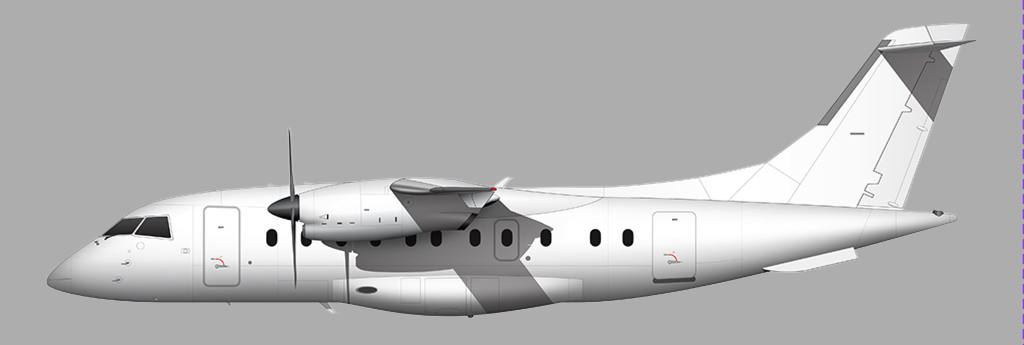
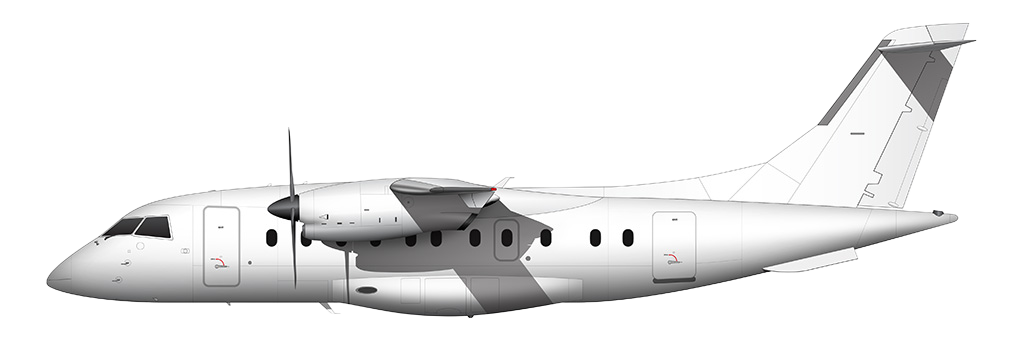
De Havilland Dash 8-200 (shortest-field type) + fix turboprop transparency
Adds the DHC-8-200 (id DH8B, its real ICAO code) as the designer's
Twin-Otter stand-in: a per-type runway override (minRunwayFtOverride =
2,000 ft, read by the route gate as type.minRunwayFt) makes it the ONLY
aircraft that can serve St. Barths (SBH, 2,119 ft) — the shortest field
in the game. The other three turboprops keep the 3,400 ft tier default,
so SBH is a genuine Dash-8-exclusive unlock. Real specs, own crew family.

Also fixes the three earlier turboprop illustrations: the Figma node
EXPORT baked in the frame's gray background (opaque), so B1900/AT46/D328
shipped with a gray box instead of transparency. Replaced them (and added
DH8B) with the transparent rawImages source fills. Gotcha documented in
CLAUDE.md for future Figma illustration pulls.

Verified 9/9 headless (SBH serviceable by Dash 8 only, others runway- or
range-blocked) + live Marketplace (all four turboprops render transparent
with correct specs).

diff --git a/AirlineArchitect/AirlineArchitect/Sim/AircraftType.swift b/AirlineArchitect/AirlineArchitect/Sim/AircraftType.swift
@@ -111,6 +111,14 @@ struct AircraftType: Identifiable {
     let costPerHour: Int
     let purchasePrice: Int
     let expectedLifespanCycles: Int
+    /// Per-type runway minimum override (ft). nil = use the body-type default.
+    /// The Dash 8-200 sets this low (our shortest-field STOL type — reaches
+    /// St. Barths, which the other turboprops can't).
+    var minRunwayFtOverride: Int? = nil
+
+    /// Shortest runway this specific type can use — its override if set,
+    /// otherwise the body-type tier default. The route-runway gate reads this.
+    var minRunwayFt: Int { minRunwayFtOverride ?? bodyType.minRunwayFt }
 
     /// Operating cost per sim-minute (1 tick). Ported: round(costPerHour / 60).
     var holdCostPerTick: Int { Int((Double(costPerHour) / 60).rounded()) }
@@ -145,7 +153,7 @@ struct AircraftType: Identifiable {
         "E170": 2150, "E175": 2200, "E190": 2450, "E195": 2300,
         "CRJ900": 1550, "CRJ1000": 1650,
         "ERJ135": 1750, "ERJ140": 1630, "ERJ145": 1550,
-        "B1900": 1000, "AT46": 840, "D328": 900,
+        "B1900": 1000, "AT46": 840, "D328": 900, "DH8B": 1100,
     ]
 
     /// Fixed MONTHLY lease payment: 0.8% of purchase price (LEASE_MONTHLY_RATE
@@ -206,6 +214,7 @@ struct AircraftType: Identifiable {
         .init(id: "B1900", name: "Beechcraft 1900D", seats: 19, family: "B1900_FAMILY", bodyType: .turboprop, weight: 6, mlwLbs: 16765, costPerHour: 1600, purchasePrice: 2_500_000,  expectedLifespanCycles: 30000),
         .init(id: "AT46",  name: "ATR 42-600",       seats: 48, family: "ATR42_FAMILY", bodyType: .turboprop, weight: 10, mlwLbs: 40345, costPerHour: 2000, purchasePrice: 18_000_000, expectedLifespanCycles: 70000),
         .init(id: "D328",  name: "Dornier 328-110",  seats: 33, family: "D328_FAMILY",  bodyType: .turboprop, weight: 3, mlwLbs: 30401, costPerHour: 1800, purchasePrice: 4_000_000,  expectedLifespanCycles: 35000),
+        .init(id: "DH8B",  name: "De Havilland Dash 8-200", seats: 39, family: "DASH8_FAMILY", bodyType: .turboprop, weight: 5, mlwLbs: 33900, costPerHour: 1900, purchasePrice: 4_500_000, expectedLifespanCycles: 40000, minRunwayFtOverride: 2000),
     ]
 
     static let weightTotal: Int = all.reduce(0) { $0 + $1.weight }

diff --git a/AirlineArchitect/AirlineArchitect/Sim/Crew.swift b/AirlineArchitect/AirlineArchitect/Sim/Crew.swift
@@ -43,7 +43,7 @@ let FAMILY_LABELS: [String: String] = [
     "B747": "B747", "A380": "A380", "A340": "A340",
     "E170_FAMILY": "E170/175", "E190_FAMILY": "E190/195",
     "CRJ_FAMILY": "CRJ", "ERJ_FAMILY": "ERJ",
-    "B1900_FAMILY": "1900", "ATR42_FAMILY": "ATR 42", "D328_FAMILY": "Do 328",
+    "B1900_FAMILY": "1900", "ATR42_FAMILY": "ATR 42", "D328_FAMILY": "Do 328", "DASH8_FAMILY": "Dash 8",
 ]
 
 /// Crew-card display: a full family name + the type-rating coverage line (Crews
@@ -67,4 +67,5 @@ let CREW_FAMILY_INFO: [String: (name: String, coverage: String)] = [
     "B1900_FAMILY": ("Beechcraft 1900", "Covers Beechcraft 1900D"),
     "ATR42_FAMILY": ("ATR 42", "Covers ATR 42-600"),
     "D328_FAMILY":  ("Dornier 328", "Covers Dornier 328-110"),
+    "DASH8_FAMILY": ("De Havilland Dash 8", "Covers Dash 8-200"),
 ]

diff --git a/AirlineArchitect/AirlineArchitect/Sim/Simulation.swift b/AirlineArchitect/AirlineArchitect/Sim/Simulation.swift
@@ -996,7 +996,7 @@ final class Simulation {
     func routeBlock(for ac: Aircraft, from origin: Airport, to dest: Airport) -> RouteBlock? {
         let nm = Int(origin.greatCircleNM(to: dest).rounded())
         if nm > ac.type.rangeNM { return .range(nm) }
-        let minRw = ac.type.bodyType.minRunwayFt
+        let minRw = ac.type.minRunwayFt   // per-type (Dash 8 STOL override) or tier default
         if let rw = origin.info?.longestRunwayFt, rw < minRw { return .runway(origin.code) }
         if let rw = dest.info?.longestRunwayFt, rw < minRw { return .runway(dest.code) }
         return nil

diff --git a/CLAUDE.md b/CLAUDE.md
@@ -112,23 +112,36 @@ one contradicts the design thesis.)
 
 ## Decided — Fleet (rewritten this session, was 6 types / 4 families, now 30 / 15)
 
-- **TURBOPROP TIER — ADDED (designer supplied Figma side-view art for three).
-  34 types now (was 31).** A brand-new `BodyType.turboprop` (the first
-  non-jet body-type) with three types: **Beechcraft 1900D** (`B1900`, 19 seats,
+- **TURBOPROP TIER — ADDED (designer supplied Figma side-view art). 35 types
+  now (was 31).** A brand-new `BodyType.turboprop` (the first non-jet
+  body-type) with FOUR types: **Beechcraft 1900D** (`B1900`, 19 seats,
   $2.5M — out of production, cheap used), **ATR 42-600** (`AT46`, 48 seats,
   $18M — in production, the EIS-class workhorse), **Dornier 328-110** (`D328`,
-  33 seats, $4M). Each is its OWN crew family (`B1900_FAMILY` / `ATR42_FAMILY`
-  / `D328_FAMILY` — real distinct type ratings; FAMILY_LABELS + CREW_FAMILY_INFO
-  hand-updated). The POINT of the tier is `BodyType.turboprop.minRunwayFt =
-  3400` — low enough to serve short regional/island fields jets can't (EIS
-  4,642 ft is now serviceable), but **St. Barths (SBH 2,119 ft) and Saba stay
-  honestly unservable** — they need a Twin-Otter-class STOL type nobody added.
+  33 seats, $4M), and **De Havilland Dash 8-200** (`DH8B` — its real ICAO
+  type code — 39 seats, $4.5M, the designer's Twin-Otter stand-in). Each is its
+  OWN crew family (`B1900_FAMILY` / `ATR42_FAMILY` / `D328_FAMILY` /
+  `DASH8_FAMILY` — real distinct type ratings; FAMILY_LABELS + CREW_FAMILY_INFO
+  hand-updated). The tier default `BodyType.turboprop.minRunwayFt = 3400` serves
+  short regional/island fields jets can't (EIS 4,642 ft). **The Dash 8 is the
+  SHORTEST-FIELD aircraft** via a new per-type override
+  (`AircraftType.minRunwayFtOverride`, read by the runway gate as
+  `type.minRunwayFt`): `DH8B` = 2,000 ft, so it's the ONLY type that can serve
+  **St. Barths (SBH 2,119 ft)** — the shortest field in the game. (Real Dash 8-200
+  needs ~3,000 ft; 2,000 is a deliberate gameplay stretch since it's the
+  Twin-Otter/DHC-6 stand-in the designer couldn't source. A true DHC-6 would go
+  lower still.) The other three turboprops keep the 3,400 default, so SBH is a
+  genuine Dash-8-exclusive unlock.
   All the derived BodyType switches got a turboprop case (iconLength 8.5,
   block-minutes 55, fare $150, cruise 4.6 nm/min ≈ 275 kt); `usesWidebodyGateFee`
   is false so they pay the narrowbody gate tier. **Map icon is a PLACEHOLDER** —
   reuses the regionalJet top-down silhouette (no turboprop glyph exists); the
   side-view Marketplace/Fleet art is real (Resources/Illustrations/{B1900,AT46,
-  D328}.png, normalized to the 1024px-wide fleet-art format). Not in any
+  D328,DH8B}.png). **FIGMA-EXPORT GOTCHA (bit us once):** `download_assets`'s
+  `export` PNG bakes in the frame's GRAY BACKGROUND (opaque) — the aircraft art
+  shipped with a gray box the first time. The fix: use the `rawImages` entry
+  instead (the transparent source fill, `raw_image_1`, already 1024px-wide and
+  alpha-0). For any future Figma illustration pull, grab the RAW image, not the
+  node export. Not in any
   competitor roster's `types` list → background traffic resolves them via the
   Independent Operator fallback (realistic — regional turboprops = small
   operators). Verified 29/29 headless (types resolve, families labeled, runway